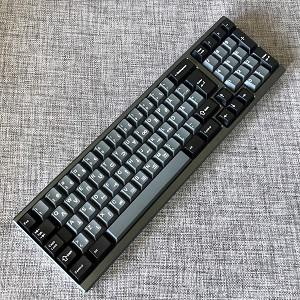
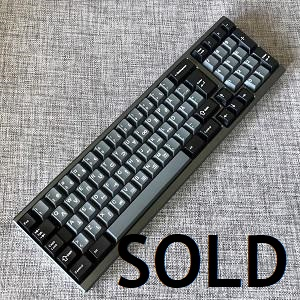
June selling

Changed region(s): [[0.39, 0.78, 0.96, 0.96]]

diff --git a/index.html b/index.html
@@ -73,17 +73,14 @@
 		<a href="g80-1800.html">Modified G80-1800</a>
 		<a href="decent65proto.html">Decent65 prototype</a>
 		<a href="blacktofu.html">Black Tofu</a>
-		<a href="alpstofu.html">Alps Tofu</a>
 		<a href="i69.html">i69</a>
 	    <a href="borsdorf.html">Borsdorf</a>
 		<a href="idb60proto.html">idb60 prototype</a>
 	    <a href="bokcp.html">Bok.cp</a>
-	    <a href="cypher.html">Cypher keyboard 1</a>
 	    <a href="cypher.html">Cypher keyboard 2</a>
 	    <a href="preonicrev3.html">Preonic rev3</a>
 	    <a href="idb60xtproto.html">idb 60xt prototype</a>
 	    <a href="gregg.html">Gregg</a>
-		<a href="ebony65.html">Ebony65</a>
 		</div>
 		</div>
 	  </div>
@@ -232,24 +229,6 @@ The lubed Revo Clear switches combined with a dampening mat in the case make it 
 						>
 							<img src="images/blacktofu.jpg" alt="blacktofu" width="300"/>
 						</a>
-					</li>
-					<li>
-						<a href="alpstofu.html" data-largesrc="images/alpstofu.jpg" data-title="Alps Tofu" data-description=
-						"
-						<b>Case: </b>Kbdfans black Tofu</br>
-						<b>Layout: </b>60%</br>
-						<b>Mount: </b>Tray</br>
-						<b>Plate: </b>Steel</br>
-						<b>PCB: </b>TMK Alps64 from hasu</br>
-						<b>Switches: </b>Unlubed green Alps</br>
-						<b>Keycaps: </b>OG Dell</br>
-						<b>Aquired: </b>August 2019</br></br>
-						<b>Additional information:</b></br>
-This was my second venture into Alps territory after the Borsdorf. This is an ok keyboard, but is not a keyboard that get much usage. 
-						"
-						>
-							<img src="images/alpstofu.jpg" alt="alpstofu" width="300"/>
-						</a>
 					</li>	
 					<li>
 						<a href="i69.html" data-largesrc="images/i69.jpg" data-title="i69" data-description=
@@ -333,26 +312,6 @@ The stabilizers are GMK screw-ins.
 						</a>
 					</li>
 					<li>
-						<a href="cypher.html" data-largesrc="assets/images/cypher/6.jpg" data-title="Cypher grey top" data-description=
-						"
-						<b>Board: </b>Cypher with grey top and silver bottom</br>
-						<b>Layout: </b>1800cp without F-row</br>
-						<b>Mount: </b>Top mount</br>
-						<b>Plate: </b>Polycarbonate</br>
-						<b>PCB: </b>Cypher PCB</br>
-						<b>Switches: </b>Holy Red Pandas with SPRiT 62s springs and lubed with Tribosys 3204</br>
-						<b>Keycaps: </b>GMK Space Cadet alphas and GMK WoB modifiers</br>
-						<b>Aquired: </b>March 2019</br></br>
-						<b>Additional information:</b></br>
-The Cypher is a compact f-rowless 1800 layout keyboard, which means it is somewhat close to fullsize in regard that it has a numpad and arrow cluster, but is lacking the f-row (f1-f12) and one or two rows (depending on size) above the numpad.
-What they lack in number of keys they make in nimble size and portability. The f-row is reached using Fn-key and numrow.
-Furthermore do they have three leds between numlock and backspace for caps lock, num lock and scroll lock. 
-						"
-						>
-							<img src="images/cypher1.jpg" alt="cypher1" width="300"/>
-						</a>
-					</li>
-					<li>
 						<a href="cypher.html" data-largesrc="assets/images/cypher/5.jpg" data-title="Cypher silver top" data-description=
 						"
 						<b>Board: </b>Cypher with silver top and grey bottom</br>
@@ -430,26 +389,6 @@ It is wired using single core wiring and a Teensy 2.0 as MCU. It turned out grea
 						"
 						>
 							<img src="images/gregg.jpg" alt="gregg" width="300"/>
-						</a>
-					</li>
-					<li>
-						<a href="ebony65.html" data-largesrc="assets/images/ebony65/0.jpg" data-title="Ebony65" data-description=
-						"
-						<b>Board: </b>Custom Mexican Ebony</br>
-						<b>Layout: </b>65%</br>
-						<b>Mount: </b>Tray</br>
-						<b>Plate: </b>Carbon fiber from Cable Car Designs</br>
-						<b>PCB: </b>ta-65 from Maartenwut</br>
-						<b>Switches: </b>KBDfans T1 Night</br>
-						<b>Keycaps: </b>GMK Carbon and a B.O.B. Spades Queen artisan</br>
-						<b>Aquired: </b>June 2018 and later</br></br>
-						<b>Additional information:</b></br>
-This is a custom build using a Mexican ebony case by a Redditor from the US, carbon fiber plate from a guy in Netherlands and a PCB from yet another guy in Germany.
-This makes it close to the Tada68, but with better bottom row with 1.5-1.5-1-1-1 instead of six 1u caps to the rights of the spacebar. The T1 night switches are tactile and loud, but in a quite good way.
-The case is of course very heavy due to the high density of the Mexican ebony. It also very scratch and dent-resistant.
-						"
-						>
-							<img src="images/ebony65.jpg" alt="ebony65"/ width="300"/>
 						</a>
 					</li>
 					<li>
@@ -544,6 +483,21 @@ It's a good little artisan-holder atleast. No additional pictures in gallery.
 					<li>
 						<a href="klippe.html" data-title="Purple Klippe" data-description=>
 							<img src="images/klippe.jpg" alt="Purple Klippe" width="300"/>
+						</a>
+					</li>
+					<li>
+						<a href="cypher.html" data-title="Cypher grey to" data-description=>
+							<img src="images/cypher1.jpg" alt="Cypher grey to" width="300"/>
+						</a>
+					</li>
+					<li>
+						<a href="ebony65.html" data-title="Ebony65" data-description=>
+							<img src="images/Ebony65.jpg" alt="Ebony65" width="300"/>
+						</a>
+					</li>
+					<li>
+						<a href="alpstofu.html" data-title="Alps Tofu" data-description=>
+							<img src="images/alpstofu.jpg" alt="Alps Tofu" width="300"/>
 						</a>
 					</li>
 				</ul>

diff --git a/cypher.html b/cypher.html
@@ -97,7 +97,7 @@ The reasons for buying two are that one is going to be the wifes keyboard and th
 <li>Gateron Yellow switches with milky bottom and Cherry black top. Springs are lubed.</li>
 </ul>
 
-<p><strong>Grey top / silver bottom</strong></p>
+<p><strong>Grey top / silver bottom (sold)</strong></p>
 <ul>
 <li>Aluminium case with anodized grey top and silver bottom</li>
 <li>Polycarbonate plate</li>
@@ -105,7 +105,9 @@ The reasons for buying two are that one is going to be the wifes keyboard and th
 <li>Cypher PCB</li><li>GMK Screw-in Stabs. Clipped and lubed</li>
 <li>Yok Pandas switches (Holy red panda) which are Halo True stems in Yok red housings. SPRiT 62s springs. Lubed with Tribosys 3204 for both housings and springs.</li>
 </ul>
-
+</br>
+<h4>Update June 2020</h4>
+The grey top/silver bottom Cypher is sold.
 	   </p>
 	  </div>
 	</div>
@@ -140,7 +142,7 @@ One with alu-plate (to be replaced with CF) and one with PC plate
 		<img class="u-images" src="../assets/images/cypher/3.jpg" alt="cypher">
 	  </a>
 	 <div class="desc">
-Holy Red Pandas in place in the PC plate
+Holy Red Pandas in place in the PC plate. This case is sold.
 	</div>
 	</div>
 </div>
@@ -168,7 +170,7 @@ Silver top Cypher with ePBT grayscale caps
 		<img class="u-images" src="../assets/images/cypher/6.jpg" alt="cypher">
 	  </a>
 	 <div class="desc">
-Grey top Cypher with GMK WoB modifiers and GMK Space Cadet alphas
+Grey top Cypher with GMK WoB modifiers and GMK Space Cadet alphas. This case is sold
 	</div>
 	</div>
 </div>

diff --git a/ebony65.html b/ebony65.html
@@ -82,6 +82,9 @@ The switches T1 night from KBDfans, unlubed since there was no spring ping and i
 	   <br>
 	   <br>
 The case is of course very heavy due to the high density of the Mexican ebony. It also very scratch and dent-resistant. Added feets to the back to give it some angle.
+</br>
+<h4>Update June 2020</h4>
+This keyboard is now sold.
 	   </p>
 	  </div>
 	</div>

diff --git a/alpstofu.html b/alpstofu.html
@@ -79,6 +79,9 @@ The black case is a Kbdfans traymount Tofu. Not much to say about it.
 	   <br>
 	   <br>
 It doesn's sound or feel horrible, but it's not one I would like to use daily.
+</br>
+<h4>Update June 2020</h4>
+This keyboard is now sold.
 	   </p>
 	  </div>
 	</div>
